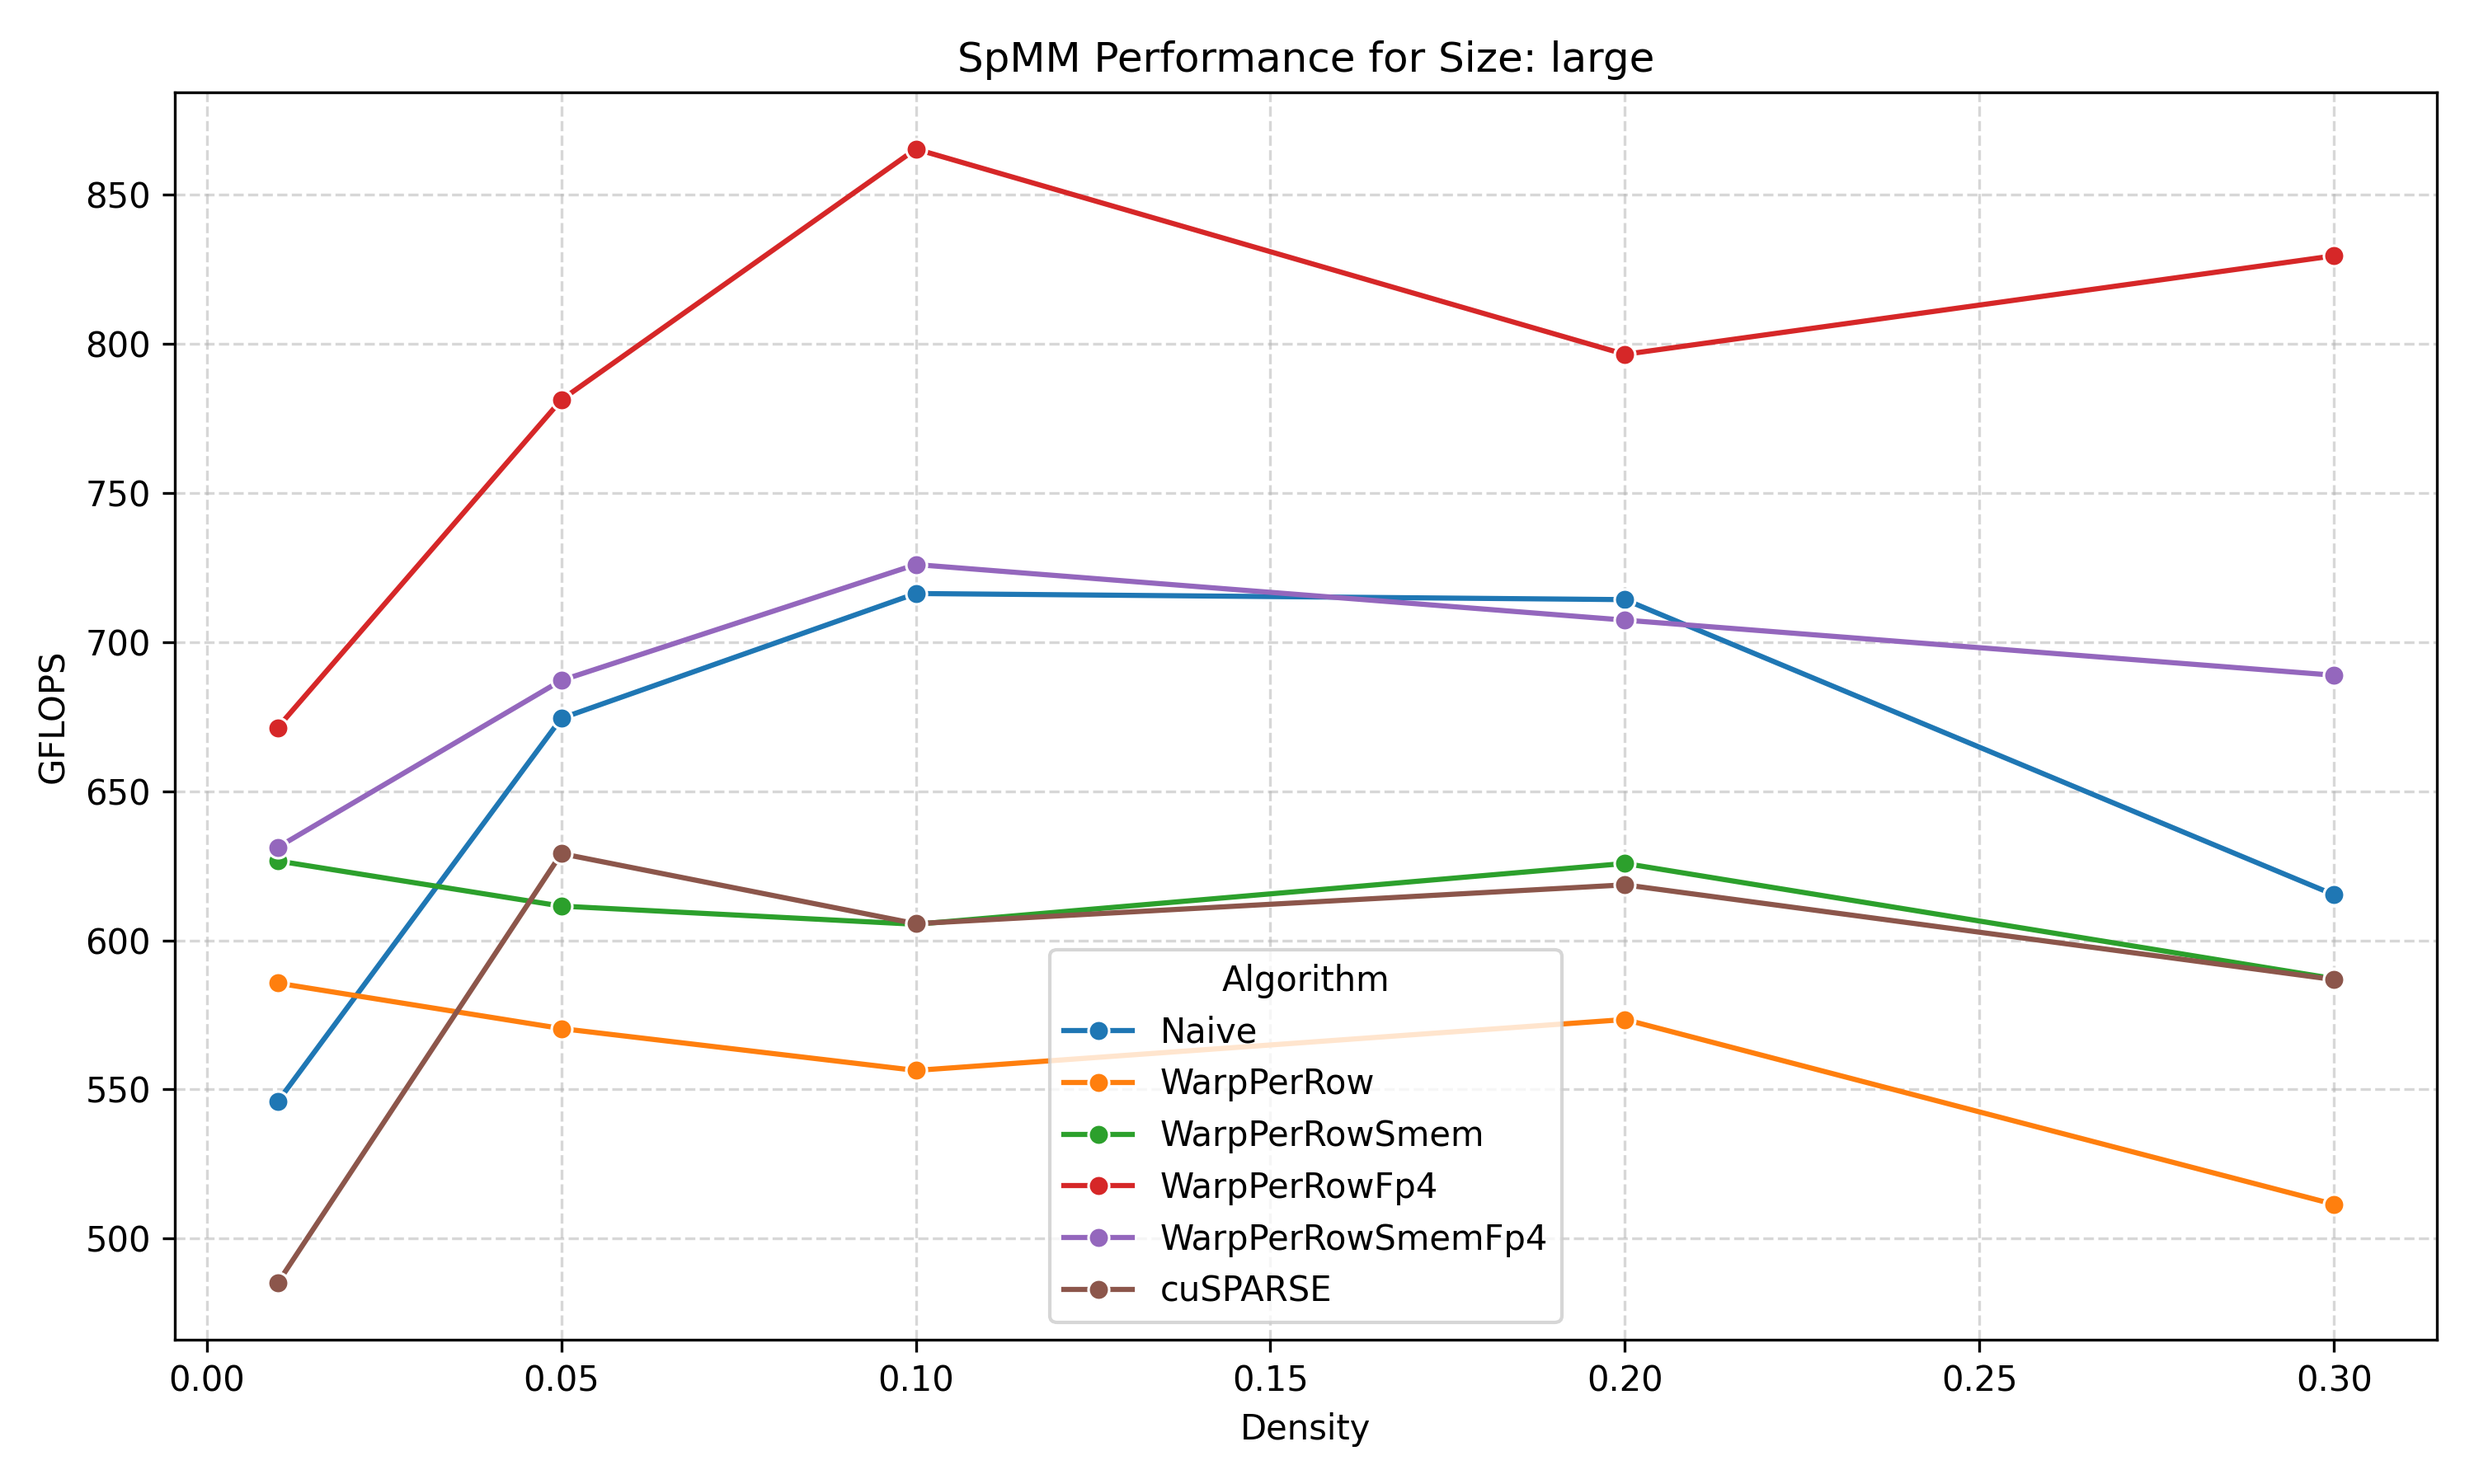
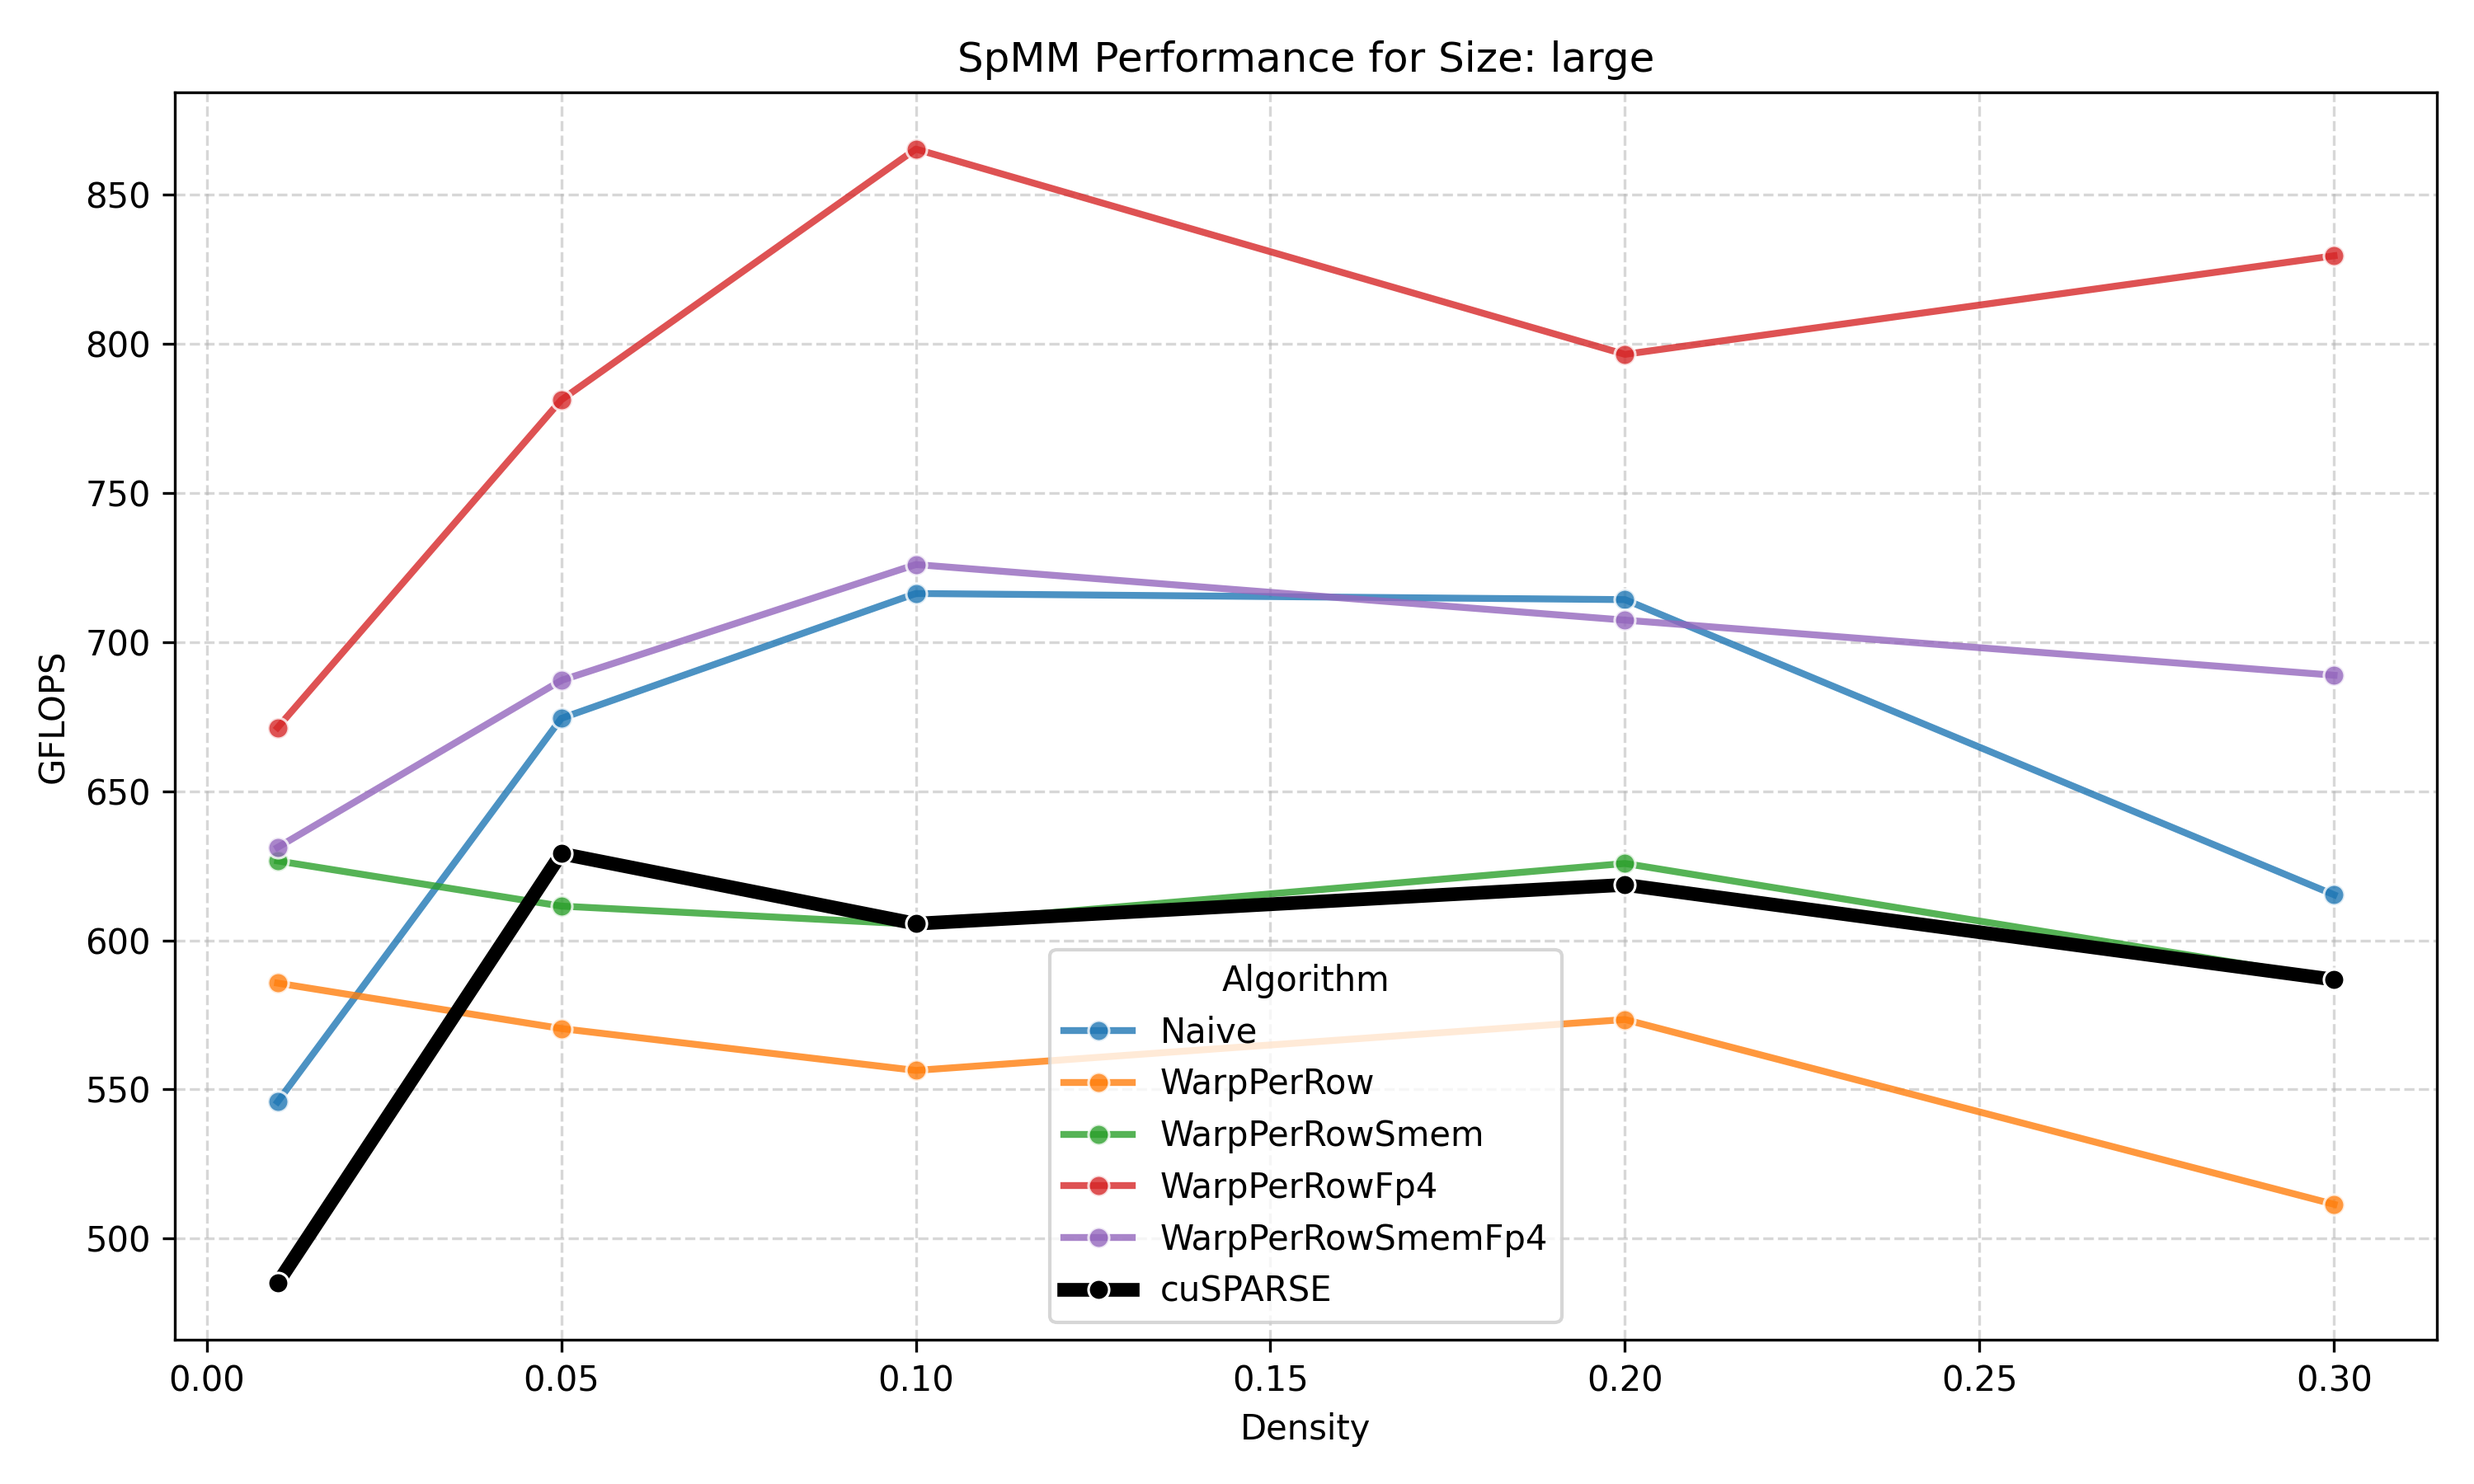
update results

diff --git a/benchmarks/csrspmm_vs_cusparse.py b/benchmarks/csrspmm_vs_cusparse.py
@@ -2,10 +2,17 @@ import pandas as pd
 import matplotlib.pyplot as plt
 import subprocess
 import seaborn as sns
+from pathlib import Path
 
-subprocess.run(["bash", "csrspmm_vs_cusparse.sh"], check=True)
+csv_path = Path("csrspmm_vs_cusparse.csv")
+#  subprocess.run(["bash", "csrspmm_vs_cusparse.sh"], check=True)
+if not csv_path.exists():
+    print("CSV not found. Running csrspmm_vs_cusparse.sh ...")
+    subprocess.run(["bash", "csrspmm_vs_cusparse.sh"], check=True)
+else:
+    print("CSV already exists. Skipping rerun experiment.")
 
-df = pd.read_csv("csrspmm_vs_cusparse.csv")
+df = pd.read_csv(csv_path)
 
 df["density"] = pd.to_numeric(df["density"])
 
@@ -34,23 +41,40 @@ for case in df["case"].unique():
     subset = df[df["case"] == case]
 
     plt.figure(figsize=(10, 6))
+
     sns.lineplot(
         data=subset,
         x="density",
         y="gflops",
         hue="algo",
-        marker="o"
+        marker="o",
+        linewidth=2,
+        alpha=0.8
     )
+
+    # Highlight the baseline: cuSPARSE
+    cus = subset[subset["algo"] == "cuSPARSE"]
+    if not cus.empty:
+        sns.lineplot(
+            data=cus,
+            x="density",
+            y="gflops",
+            marker="o",
+            linewidth=4,
+            color="black",
+            label="cuSPARSE"
+        )
+
     plt.title(f"SpMM Performance for Size: {case}")
     plt.xlabel("Density")
     plt.ylabel("GFLOPS")
     plt.grid(True, linestyle="--", alpha=0.5)
-    plt.legend(title="Algorithm")
     plt.tight_layout()
 
-    plt.savefig(f"csrspmm_{case}.png", dpi=300)
+    handles, labels = plt.gca().get_legend_handles_labels()
+    unique = dict(zip(labels, handles))
+    plt.legend(unique.values(), unique.keys(), title="Algorithm")
 
+    plt.savefig(f"csrspmm_{case}.png", dpi=300)
     plt.show()
     plt.close()
-
-
